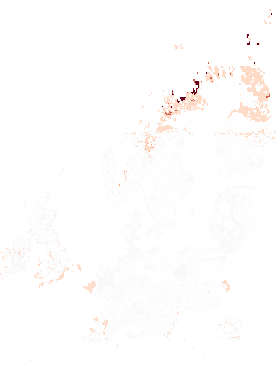
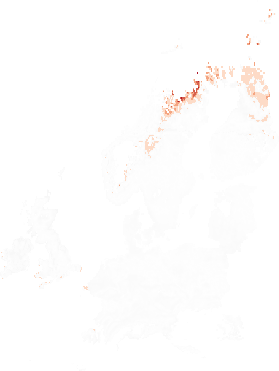
Recover continuous precision in delta decode; drop "vs previous period"
The PNG-decode fix (previous commit) traded the shift bug for a
quantization bug: decoding against only the 11 raw ramp stops snapped
every pixel to 11 discrete levels, producing blocky uniform "plateau"
regions (most visible over Spain/UK) that looked exactly like another
alignment bug but wasn't one -- verified by spot-checking decoded values
at Zagreb (high/orange, matches its on-screen color) and Madrid (a modest
but real green value, not zero), confirming the pixel grid is correctly
aligned; the blocks are genuine percent-change amplification from a low
absolute baseline; still an intense way to present the data, but real.

Fixed by building a 256-step LUT via the same piecewise-linear
interpolation the PNG's own colors were rendered with (mirrors the app's
client-side rampColor()/buildRiskLut()), and decoding against that instead
of the raw 11 stops -- recovers near-continuous precision on the same
guaranteed-correct pixel grid.

Also simplified per request: dropped the "Δ % change vs. previous period"
view -- only "vs. current (2011-2040)" remains, for both future periods.
Removed delta_from_prior generation, output files, and manifest field.

diff --git a/index.html b/index.html
@@ -1148,7 +1148,6 @@
                   <option value="threshold">Thresholded risk</option>
                   <option value="probability">Ensemble probability</option>
                   <option value="delta">Δ % change vs. current (2011–2040)</option>
-                  <option value="delta_prior">Δ % change vs. previous period</option>
                 </select>
               </div>
             </div>
@@ -1552,7 +1551,7 @@
       // the shared Spectral risk ramp the slider's color reversal assumes --
       // thresholding it would reverse-match delta colors against the wrong
       // LUT. Never mask it; it's not a "risk" surface to begin with.
-      if (overlayId === "bbtforecast" && (APP.currentForecastView === "delta" || APP.currentForecastView === "delta_prior")) return 0;
+      if (overlayId === "bbtforecast" && APP.currentForecastView === "delta") return 0;
       return riskFractionFor(overlayId);
     }
 
@@ -1914,7 +1913,6 @@
     function getForecastOverlayPaths(entry) {
       const tifPath = APP.currentForecastView === "probability" ? entry.ensemble_probability_tif
         : APP.currentForecastView === "delta" ? entry.delta_from_near_tif
-        : APP.currentForecastView === "delta_prior" ? entry.delta_from_prior_tif
         : entry.threshold_visible_tifs[APP.currentForecastThreshold];
 
       if (!tifPath) {
@@ -2422,7 +2420,7 @@
         return;
       }
 
-      if (topOverlayId === "bbtforecast" && (APP.currentForecastView === "delta" || APP.currentForecastView === "delta_prior")) {
+      if (topOverlayId === "bbtforecast" && APP.currentForecastView === "delta") {
         DOM.legendBar.style.display = "block";
         DOM.legendBar.style.background = DELTA_GRADIENT;
         DOM.legendMin.textContent = "-" + DELTA_CAP + "%";
